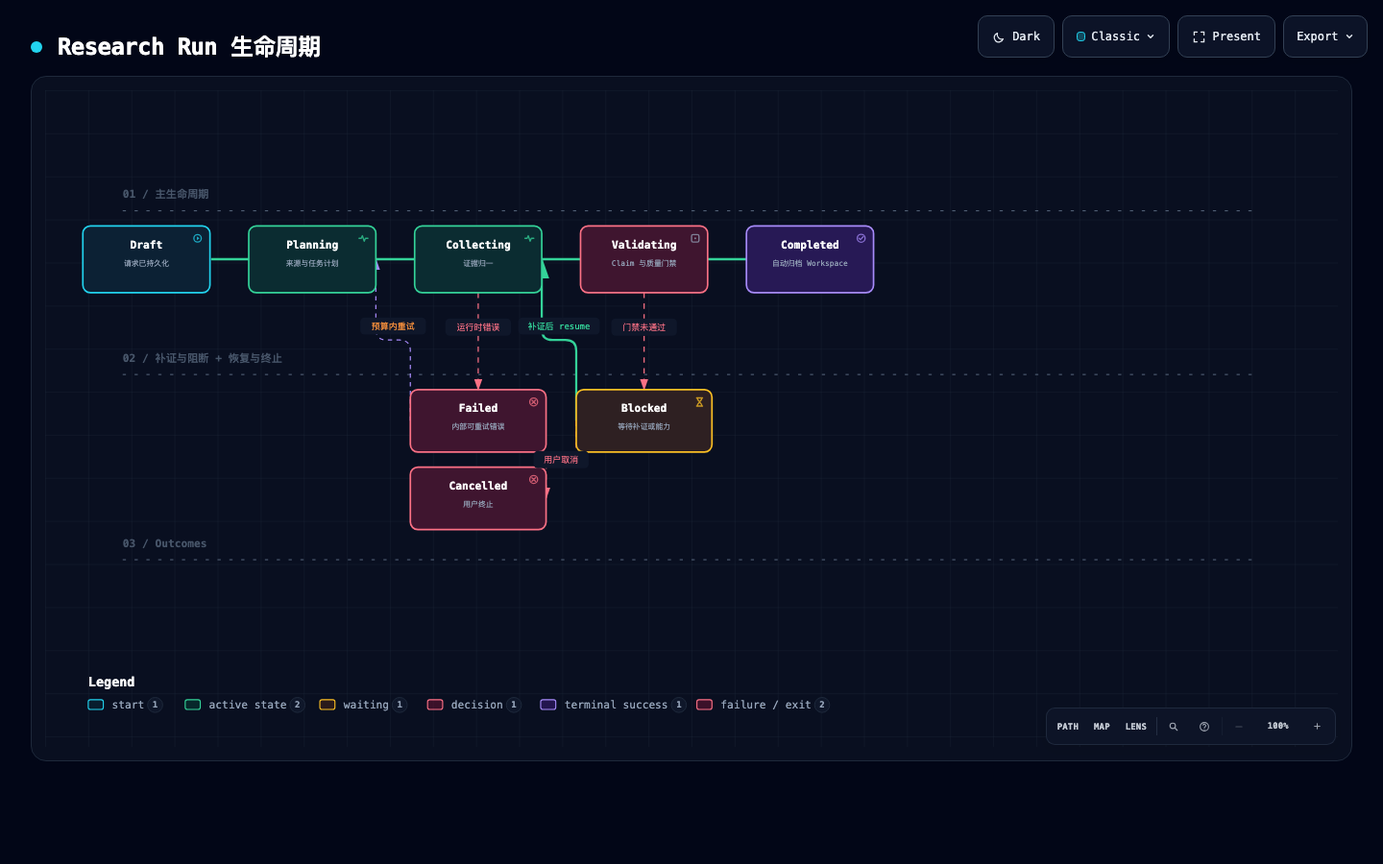
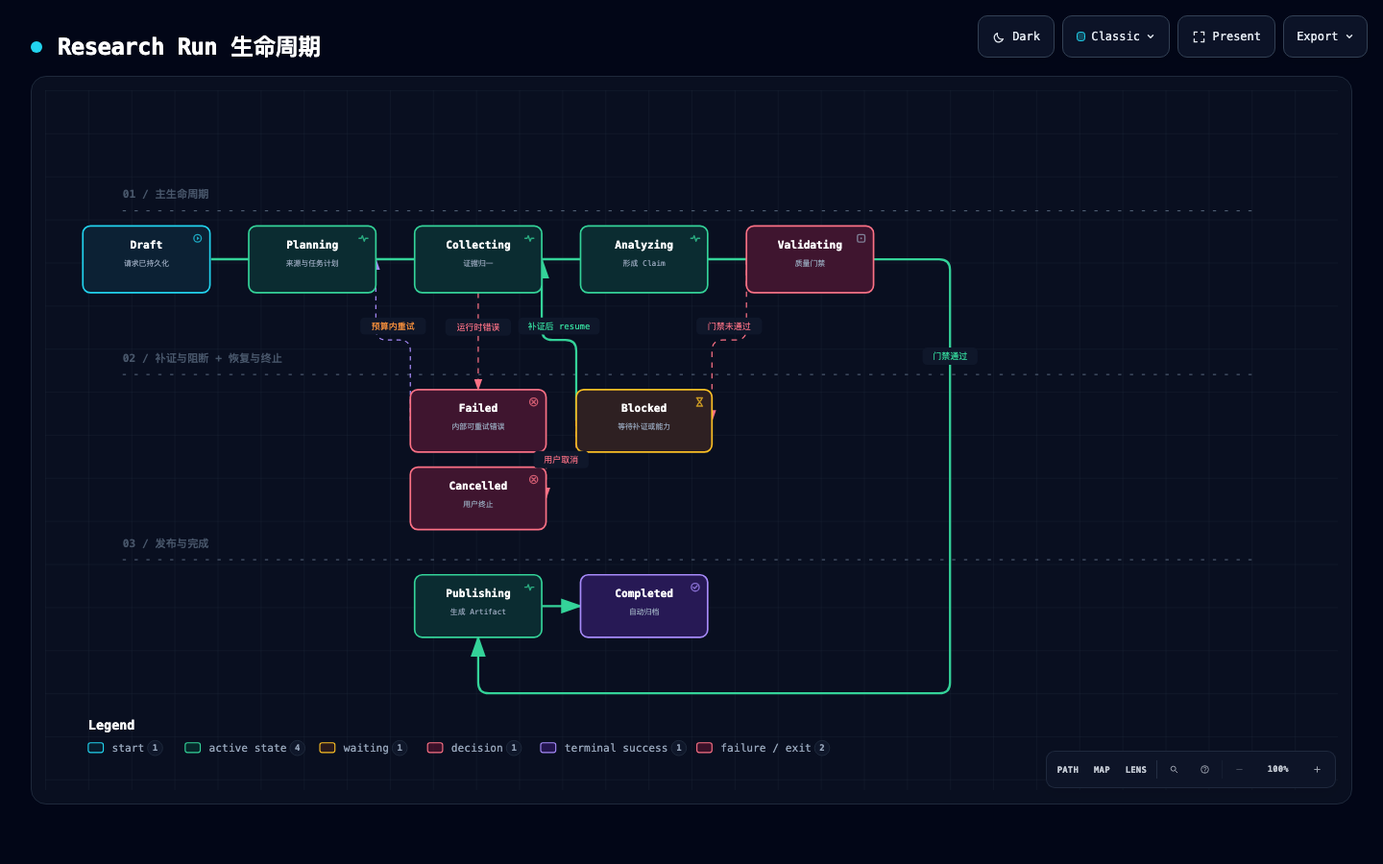
docs: close merged platform specification gaps

diff --git a/outputs/merged-platform-architecture/05-research-run-lifecycle.html b/outputs/merged-platform-architecture/05-research-run-lifecycle.html
@@ -4883,7 +4883,7 @@
 
     <!-- Main Diagram -->
     <div class="diagram-container" data-detail-level="read">
-      <svg viewBox="0 0 1200 610" role="img" aria-labelledby="archify-diagram-title archify-diagram-description" data-preset="classic" data-quality-profile="showcase">
+      <svg viewBox="0 0 1200 650" role="img" aria-labelledby="archify-diagram-title archify-diagram-description" data-preset="classic" data-quality-profile="showcase">
         <title id="archify-diagram-title">Research Run 生命周期</title>
         <desc id="archify-diagram-description">A lifecycle diagram generated by Archify.</desc>
         <!-- Definitions -->
@@ -4914,17 +4914,19 @@
         <path d="M 72 264 L 1128 264" class="a-default" stroke-width="0.8" stroke-dasharray="3,8"/>
         <text x="72" y="252" class="t-dim" font-size="10" font-weight="600">02 / 补证与阻断 + 恢复与终止</text>
         <path d="M 72 436 L 1128 436" class="a-default" stroke-width="0.8" stroke-dasharray="3,8"/>
-        <text x="72" y="424" class="t-dim" font-size="10" font-weight="600">03 / Outcomes</text>
+        <text x="72" y="424" class="t-dim" font-size="10" font-weight="600">03 / 发布与完成</text>
 
         <!-- Primary lifecycle rail -->
         <path d="M 154 157 L 748 157" class="a-emphasis" stroke-width="2.2" marker-end="url(#arrowhead-emphasis)"/>
 
         <!-- Transition paths -->
-        <path data-edge-from="validating" data-edge-to="blocked" data-edge-label="门禁未通过" data-edge-key="0" data-edge-id="gateBlocked" data-composition-points="556,188;556,233;556,233;556,278" d="M 556 188 L 556 233 L 556 233 L 556 278" class="a-security" stroke-width="1.1" marker-end="url(#arrowhead-security)"/>
-        <path data-edge-from="blocked" data-edge-to="collecting" data-edge-label="补证后 resume" data-edge-key="1" data-edge-id="resume" data-composition-points="493,307;493,232;461,232;461,157" d="M 493 307 L 493 242 Q 493 232 483 232 L 471 232 Q 461 232 461 222 L 461 157" class="a-emphasis" stroke-width="2" marker-end="url(#arrowhead-emphasis)"/>
-        <path data-edge-from="collecting" data-edge-to="failed" data-edge-label="运行时错误" data-edge-key="2" data-edge-id="executionFailed" data-composition-points="402,188;402,233;402,233;402,278" d="M 402 188 L 402 233 L 402 233 L 402 278" class="a-security" stroke-width="1.1" marker-end="url(#arrowhead-security)"/>
-        <path data-edge-from="failed" data-edge-to="planning" data-edge-label="预算内重试" data-edge-key="3" data-edge-id="retry" data-composition-points="339,307;339,232;307,232;307,157" d="M 339 307 L 339 242 Q 339 232 329 232 L 317 232 Q 307 232 307 222 L 307 157" class="a-dashed" stroke-width="1.1" marker-end="url(#arrowhead-dashed)"/>
-        <path data-edge-from="blocked" data-edge-to="cancelled" data-edge-label="用户取消" data-edge-key="4" data-edge-id="userCancel" data-composition-points="493,307;493,343;465,343;465,379" d="M 493 307 L 493 333 Q 493 343 483 343 L 475 343 Q 465 343 465 353 L 465 379" class="a-security" stroke-width="1.1" marker-end="url(#arrowhead-security)"/>
+        <path data-edge-from="validating" data-edge-to="publishing" data-edge-label="门禁通过" data-edge-key="0" data-edge-id="publishStart" data-composition-points="769,157;840,157;840,560;402,560;402,508" d="M 769 157 L 830 157 Q 840 157 840 167 L 840 550 Q 840 560 830 560 L 412 560 Q 402 560 402 550 L 402 508" class="a-emphasis" stroke-width="2" marker-end="url(#arrowhead-emphasis)"/>
+        <path data-edge-from="publishing" data-edge-to="completed" data-edge-key="1" data-edge-id="publishComplete" data-composition-points="461,479;497,479" d="M 461 479 L 497 479" class="a-emphasis" stroke-width="2" marker-end="url(#arrowhead-emphasis)"/>
+        <path data-edge-from="validating" data-edge-to="blocked" data-edge-label="门禁未通过" data-edge-key="2" data-edge-id="gateBlocked" data-composition-points="651,157;651,232;619,232;619,307" d="M 651 157 L 651 222 Q 651 232 641 232 L 629 232 Q 619 232 619 242 L 619 307" class="a-security" stroke-width="1.1" marker-end="url(#arrowhead-security)"/>
+        <path data-edge-from="blocked" data-edge-to="collecting" data-edge-label="补证后 resume" data-edge-key="3" data-edge-id="resume" data-composition-points="493,307;493,232;461,232;461,157" d="M 493 307 L 493 242 Q 493 232 483 232 L 471 232 Q 461 232 461 222 L 461 157" class="a-emphasis" stroke-width="2" marker-end="url(#arrowhead-emphasis)"/>
+        <path data-edge-from="collecting" data-edge-to="failed" data-edge-label="运行时错误" data-edge-key="4" data-edge-id="executionFailed" data-composition-points="402,188;402,233;402,233;402,278" d="M 402 188 L 402 233 L 402 233 L 402 278" class="a-security" stroke-width="1.1" marker-end="url(#arrowhead-security)"/>
+        <path data-edge-from="failed" data-edge-to="planning" data-edge-label="预算内重试" data-edge-key="5" data-edge-id="retry" data-composition-points="339,307;339,232;307,232;307,157" d="M 339 307 L 339 242 Q 339 232 329 232 L 317 232 Q 307 232 307 222 L 307 157" class="a-dashed" stroke-width="1.1" marker-end="url(#arrowhead-dashed)"/>
+        <path data-edge-from="blocked" data-edge-to="cancelled" data-edge-label="用户取消" data-edge-key="6" data-edge-id="userCancel" data-composition-points="493,307;493,343;465,343;465,379" d="M 493 307 L 493 333 Q 493 343 483 343 L 475 343 Q 465 343 465 353 L 465 379" class="a-security" stroke-width="1.1" marker-end="url(#arrowhead-security)"/>
 
         <!-- States -->
         <g id="node-draft" data-node-id="draft" data-node-label="Draft" tabindex="0" role="button" aria-label="Focus Draft, 请求已持久化, 主生命周期" aria-pressed="false" data-node-kind="start" data-node-sublabel="请求已持久化" data-node-context="主生命周期">
@@ -4964,30 +4966,54 @@
           <text data-detail="context" x="402" y="163" class="t-muted" font-size="7" text-anchor="middle">证据归一</text>
         </g>
 
-        <g id="node-validating" data-node-id="validating" data-node-label="Validating" tabindex="0" role="button" aria-label="Focus Validating, Claim 与质量门禁, 主生命周期" aria-pressed="false" data-node-kind="decision" data-node-sublabel="Claim 与质量门禁" data-node-context="主生命周期">
-          <title>Validating · Claim 与质量门禁 · 主生命周期</title>
+        <g id="node-analyzing" data-node-id="analyzing" data-node-label="Analyzing" tabindex="0" role="button" aria-label="Focus Analyzing, 形成 Claim, 主生命周期" aria-pressed="false" data-node-kind="active" data-node-sublabel="形成 Claim" data-node-context="主生命周期">
+          <title>Analyzing · 形成 Claim · 主生命周期</title>
           <rect x="497" y="126" width="118" height="62" rx="7" class="c-mask"/>
-          <rect x="497" y="126" width="118" height="62" rx="7" class="c-security" stroke-width="1.5"/>
-          <g aria-hidden="true" data-semantic-sigil="neutral" class="semantic-sigil s-external" transform="translate(598 132) scale(0.6875)">
+          <rect x="497" y="126" width="118" height="62" rx="7" class="c-backend" stroke-width="1.5"/>
+          <g aria-hidden="true" data-semantic-sigil="active" class="semantic-sigil s-backend" transform="translate(598 132) scale(0.6875)">
+            <path d="M2 8h3l1.5-3.5L9 12l1.6-4H14"/>
+          </g>
+        <text data-detail="fine" x="507" y="140" class="t-backend" font-size="7" font-weight="700">04</text>
+          <text data-detail-anchor x="556" y="147" class="t-primary" font-size="10" font-weight="600" text-anchor="middle">Analyzing</text>
+          <text data-detail="context" x="556" y="163" class="t-muted" font-size="7" text-anchor="middle">形成 Claim</text>
+        </g>
+
+        <g id="node-validating" data-node-id="validating" data-node-label="Validating" tabindex="0" role="button" aria-label="Focus Validating, 质量门禁, 主生命周期" aria-pressed="false" data-node-kind="decision" data-node-sublabel="质量门禁" data-node-context="主生命周期">
+          <title>Validating · 质量门禁 · 主生命周期</title>
+          <rect x="651" y="126" width="118" height="62" rx="7" class="c-mask"/>
+          <rect x="651" y="126" width="118" height="62" rx="7" class="c-security" stroke-width="1.5"/>
+          <g aria-hidden="true" data-semantic-sigil="neutral" class="semantic-sigil s-external" transform="translate(752 132) scale(0.6875)">
             <rect x="3" y="3" width="10" height="10" rx="2"/>
             <circle cx="8" cy="8" r="1.2" class="sigil-fill"/>
           </g>
-        <text data-detail="fine" x="507" y="140" class="t-security" font-size="7" font-weight="700">04</text>
-          <text data-detail-anchor x="556" y="147" class="t-primary" font-size="10" font-weight="600" text-anchor="middle">Validating</text>
-          <text data-detail="context" x="556" y="163" class="t-muted" font-size="7" text-anchor="middle">Claim 与质量门禁</text>
+        <text data-detail="fine" x="661" y="140" class="t-security" font-size="7" font-weight="700">05</text>
+          <text data-detail-anchor x="710" y="147" class="t-primary" font-size="10" font-weight="600" text-anchor="middle">Validating</text>
+          <text data-detail="context" x="710" y="163" class="t-muted" font-size="7" text-anchor="middle">质量门禁</text>
         </g>
 
-        <g id="node-completed" data-node-id="completed" data-node-label="Completed" tabindex="0" role="button" aria-label="Focus Completed, 自动归档 Workspace, 主生命周期" aria-pressed="false" data-node-kind="success" data-node-sublabel="自动归档 Workspace" data-node-context="主生命周期">
-          <title>Completed · 自动归档 Workspace · 主生命周期</title>
-          <rect x="651" y="126" width="118" height="62" rx="7" class="c-mask"/>
-          <rect x="651" y="126" width="118" height="62" rx="7" class="c-database" stroke-width="1.5"/>
-          <g aria-hidden="true" data-semantic-sigil="success" class="semantic-sigil s-database" transform="translate(752 132) scale(0.6875)">
+        <g id="node-publishing" data-node-id="publishing" data-node-label="Publishing" tabindex="0" role="button" aria-label="Focus Publishing, 生成 Artifact, 发布与完成" aria-pressed="false" data-node-kind="active" data-node-sublabel="生成 Artifact" data-node-context="发布与完成">
+          <title>Publishing · 生成 Artifact · 发布与完成</title>
+          <rect x="343" y="450" width="118" height="58" rx="7" class="c-mask"/>
+          <rect x="343" y="450" width="118" height="58" rx="7" class="c-backend" stroke-width="1.5"/>
+          <g aria-hidden="true" data-semantic-sigil="active" class="semantic-sigil s-backend" transform="translate(444 456) scale(0.6875)">
+            <path d="M2 8h3l1.5-3.5L9 12l1.6-4H14"/>
+          </g>
+        <text data-detail="fine" x="353" y="464" class="t-backend" font-size="7" font-weight="700">06</text>
+          <text data-detail-anchor x="402" y="471" class="t-primary" font-size="10" font-weight="600" text-anchor="middle">Publishing</text>
+          <text data-detail="context" x="402" y="487" class="t-muted" font-size="7" text-anchor="middle">生成 Artifact</text>
+        </g>
+
+        <g id="node-completed" data-node-id="completed" data-node-label="Completed" tabindex="0" role="button" aria-label="Focus Completed, 自动归档, 发布与完成" aria-pressed="false" data-node-kind="success" data-node-sublabel="自动归档" data-node-context="发布与完成">
+          <title>Completed · 自动归档 · 发布与完成</title>
+          <rect x="497" y="450" width="118" height="58" rx="7" class="c-mask"/>
+          <rect x="497" y="450" width="118" height="58" rx="7" class="c-database" stroke-width="1.5"/>
+          <g aria-hidden="true" data-semantic-sigil="success" class="semantic-sigil s-database" transform="translate(598 456) scale(0.6875)">
             <circle cx="8" cy="8" r="5.3"/>
             <path d="m5.2 8 1.8 1.8 3.8-4"/>
           </g>
-        <text data-detail="fine" x="661" y="140" class="t-database" font-size="7" font-weight="700">05</text>
-          <text data-detail-anchor x="710" y="147" class="t-primary" font-size="10" font-weight="600" text-anchor="middle">Completed</text>
-          <text data-detail="context" x="710" y="163" class="t-muted" font-size="7" text-anchor="middle">自动归档 Workspace</text>
+        <text data-detail="fine" x="507" y="464" class="t-database" font-size="7" font-weight="700">07</text>
+          <text data-detail-anchor x="556" y="471" class="t-primary" font-size="10" font-weight="600" text-anchor="middle">Completed</text>
+          <text data-detail="context" x="556" y="487" class="t-muted" font-size="7" text-anchor="middle">自动归档</text>
         </g>
 
         <g id="node-blocked" data-node-id="blocked" data-node-label="Blocked" tabindex="0" role="button" aria-label="Focus Blocked, 等待补证或能力, 补证与阻断" aria-pressed="false" data-node-kind="waiting" data-node-sublabel="等待补证或能力" data-node-tag="可恢复" data-node-context="补证与阻断">
@@ -5029,53 +5055,58 @@
         </g>
 
         <!-- Transition labels -->
-        <g data-detail="context" data-edge-from="validating" data-edge-to="blocked" data-edge-label="门禁未通过" data-edge-key="0" data-edge-id="gateBlocked">
-          <rect x="525.5" y="212" width="61" height="16" rx="4" class="c-mask"/>
-          <text x="556" y="223" class="t-security" font-size="8" text-anchor="middle">门禁未通过</text>
+        <g data-detail="context" data-edge-from="validating" data-edge-to="publishing" data-edge-label="门禁通过" data-edge-key="0" data-edge-id="publishStart">
+          <rect x="814.4" y="239" width="51.2" height="16" rx="4" class="c-mask"/>
+          <text x="840" y="250" class="t-backend" font-size="8" text-anchor="middle">门禁通过</text>
         </g>
-        <g data-detail="context" data-edge-from="blocked" data-edge-to="collecting" data-edge-label="补证后 resume" data-edge-key="1" data-edge-id="resume">
+
+        <g data-detail="context" data-edge-from="validating" data-edge-to="blocked" data-edge-label="门禁未通过" data-edge-key="2" data-edge-id="gateBlocked">
+          <rect x="604.5" y="211" width="61" height="16" rx="4" class="c-mask"/>
+          <text x="635" y="222" class="t-security" font-size="8" text-anchor="middle">门禁未通过</text>
+        </g>
+        <g data-detail="context" data-edge-from="blocked" data-edge-to="collecting" data-edge-label="补证后 resume" data-edge-key="3" data-edge-id="resume">
           <rect x="439.15" y="211" width="75.7" height="16" rx="4" class="c-mask"/>
           <text x="477" y="222" class="t-backend" font-size="8" text-anchor="middle">补证后 resume</text>
         </g>
-        <g data-detail="context" data-edge-from="collecting" data-edge-to="failed" data-edge-label="运行时错误" data-edge-key="2" data-edge-id="executionFailed">
+        <g data-detail="context" data-edge-from="collecting" data-edge-to="failed" data-edge-label="运行时错误" data-edge-key="4" data-edge-id="executionFailed">
           <rect x="371.5" y="212" width="61" height="16" rx="4" class="c-mask"/>
           <text x="402" y="223" class="t-security" font-size="8" text-anchor="middle">运行时错误</text>
         </g>
-        <g data-detail="context" data-edge-from="failed" data-edge-to="planning" data-edge-label="预算内重试" data-edge-key="3" data-edge-id="retry">
+        <g data-detail="context" data-edge-from="failed" data-edge-to="planning" data-edge-label="预算内重试" data-edge-key="5" data-edge-id="retry">
           <rect x="292.5" y="211" width="61" height="16" rx="4" class="c-mask"/>
           <text x="323" y="222" class="t-messagebus" font-size="8" text-anchor="middle">预算内重试</text>
         </g>
-        <g data-detail="context" data-edge-from="blocked" data-edge-to="cancelled" data-edge-label="用户取消" data-edge-key="4" data-edge-id="userCancel">
+        <g data-detail="context" data-edge-from="blocked" data-edge-to="cancelled" data-edge-label="用户取消" data-edge-key="6" data-edge-id="userCancel">
           <rect x="453.4" y="335" width="51.2" height="16" rx="4" class="c-mask"/>
           <text x="479" y="346" class="t-security" font-size="8" text-anchor="middle">用户取消</text>
         </g>
 
         <!-- Legend -->
         <g data-legend data-legend-bridge>
-          <text x="40" y="554" class="t-primary" font-size="12" font-weight="650">Legend</text>
-          <g data-legend-semantic-kind="start" data-legend-kind="start" data-legend-label="start" data-legend-x="40" data-legend-baseline="574" data-legend-width="68">
-            <rect x="40" y="566" width="14" height="9" rx="2" class="c-frontend" stroke-width="1"/>
-            <text x="62" y="574" class="t-muted" font-size="10" font-weight="500">start</text>
+          <text x="40" y="594" class="t-primary" font-size="12" font-weight="650">Legend</text>
+          <g data-legend-semantic-kind="start" data-legend-kind="start" data-legend-label="start" data-legend-x="40" data-legend-baseline="614" data-legend-width="68">
+            <rect x="40" y="606" width="14" height="9" rx="2" class="c-frontend" stroke-width="1"/>
+            <text x="62" y="614" class="t-muted" font-size="10" font-weight="500">start</text>
           </g>
-          <g data-legend-semantic-kind="active" data-legend-kind="active" data-legend-label="active state" data-legend-x="130" data-legend-baseline="574" data-legend-width="103">
-            <rect x="130" y="566" width="14" height="9" rx="2" class="c-backend" stroke-width="1"/>
-            <text x="152" y="574" class="t-muted" font-size="10" font-weight="500">active state</text>
+          <g data-legend-semantic-kind="active" data-legend-kind="active" data-legend-label="active state" data-legend-x="130" data-legend-baseline="614" data-legend-width="103">
+            <rect x="130" y="606" width="14" height="9" rx="2" class="c-backend" stroke-width="1"/>
+            <text x="152" y="614" class="t-muted" font-size="10" font-weight="500">active state</text>
           </g>
-          <g data-legend-semantic-kind="waiting" data-legend-kind="waiting" data-legend-label="waiting" data-legend-x="255" data-legend-baseline="574" data-legend-width="78">
-            <rect x="255" y="566" width="14" height="9" rx="2" class="c-cloud" stroke-width="1"/>
-            <text x="277" y="574" class="t-muted" font-size="10" font-weight="500">waiting</text>
+          <g data-legend-semantic-kind="waiting" data-legend-kind="waiting" data-legend-label="waiting" data-legend-x="255" data-legend-baseline="614" data-legend-width="78">
+            <rect x="255" y="606" width="14" height="9" rx="2" class="c-cloud" stroke-width="1"/>
+            <text x="277" y="614" class="t-muted" font-size="10" font-weight="500">waiting</text>
           </g>
-          <g data-legend-semantic-kind="decision" data-legend-kind="decision" data-legend-label="decision" data-legend-x="355" data-legend-baseline="574" data-legend-width="83">
-            <rect x="355" y="566" width="14" height="9" rx="2" class="c-security" stroke-width="1"/>
-            <text x="377" y="574" class="t-muted" font-size="10" font-weight="500">decision</text>
+          <g data-legend-semantic-kind="decision" data-legend-kind="decision" data-legend-label="decision" data-legend-x="355" data-legend-baseline="614" data-legend-width="83">
+            <rect x="355" y="606" width="14" height="9" rx="2" class="c-security" stroke-width="1"/>
+            <text x="377" y="614" class="t-muted" font-size="10" font-weight="500">decision</text>
           </g>
-          <g data-legend-semantic-kind="success" data-legend-kind="success" data-legend-label="terminal success" data-legend-x="460" data-legend-baseline="574" data-legend-width="123">
-            <rect x="460" y="566" width="14" height="9" rx="2" class="c-database" stroke-width="1"/>
-            <text x="482" y="574" class="t-muted" font-size="10" font-weight="500">terminal success</text>
+          <g data-legend-semantic-kind="success" data-legend-kind="success" data-legend-label="terminal success" data-legend-x="460" data-legend-baseline="614" data-legend-width="123">
+            <rect x="460" y="606" width="14" height="9" rx="2" class="c-database" stroke-width="1"/>
+            <text x="482" y="614" class="t-muted" font-size="10" font-weight="500">terminal success</text>
           </g>
-          <g data-legend-semantic-kind="failure" data-legend-kind="failure" data-legend-label="failure / exit" data-legend-x="605" data-legend-baseline="574" data-legend-width="113">
-            <rect x="605" y="566" width="14" height="9" rx="2" class="c-security" stroke-width="1"/>
-            <text x="627" y="574" class="t-muted" font-size="10" font-weight="500">failure / exit</text>
+          <g data-legend-semantic-kind="failure" data-legend-kind="failure" data-legend-label="failure / exit" data-legend-x="605" data-legend-baseline="614" data-legend-width="113">
+            <rect x="605" y="606" width="14" height="9" rx="2" class="c-security" stroke-width="1"/>
+            <text x="627" y="614" class="t-muted" font-size="10" font-weight="500">failure / exit</text>
           </g>
         </g>
       </svg>

diff --git a/docs/superpowers/plans/2026-08-31-merged-platform-v1.md b/docs/superpowers/plans/2026-08-31-merged-platform-v1.md
@@ -330,7 +330,11 @@ git commit -m "feat: add theme research packs"
 - Create: `services/agent_team_service.py`
 - Create: `services/scheduler_coordinator.py`
 - Create: `app/api/routes/research_workspaces.py`
-- Create: `app/api/routes/research_runtime.py`
+- Create: `app/api/routes/research_sessions.py`
+- Create: `app/api/routes/runtime_providers.py`
+- Create: `app/api/routes/research_skills.py`
+- Create: `app/api/routes/agent_teams.py`
+- Create: `app/api/routes/agent_schedules.py`
 - Modify: `services/research_run_service.py`
 - Modify: `app/api/routes/research_runs.py`
 - Test: `tests/unit/test_research_workspace_service.py`
@@ -372,14 +376,14 @@ FinGPT 允许 DSH→LangGraph 回退；Claw 缺 agent_team 能力时阻断。Ski
 
 - [ ] **Step 5: 实现 API 与 SSE**
 
-注册 workspaces、sessions/messages、runtime-providers、skills、agent-teams、agent-schedules；Run SSE 发送状态和阶段，不发送秘密或完整大对象。冲突幂等键返回已有资源。
+注册批准的独立 API 组：`/api/research-workspaces`、`/api/research-sessions` 与 `/{id}/messages`、`/api/runtime-providers`、`/api/research-skills`、`/api/agent-teams`、`/api/agent-schedules`；Run SSE 发送状态和阶段，不发送秘密或完整大对象。冲突幂等键返回已有资源。
 
 - [ ] **Step 6: 验证与 Commit**
 
 ```bash
 python -m pytest tests/unit/test_research_workspace_service.py tests/unit/test_runtime_provider_service.py tests/unit/test_agent_team_service.py tests/unit/test_scheduler_coordinator.py tests/unit/test_research_workspace_api.py tests/unit/test_research_run_service.py tests/unit/test_research_runs_api.py -q
-python -m ruff check services/research_workspace_service.py services/runtime_provider_service.py services/agent_team_service.py services/scheduler_coordinator.py data_layer/repositories/research_workspace_repository.py app/api/routes/research_workspaces.py app/api/routes/research_runtime.py tests/unit/test_research_workspace_service.py tests/unit/test_runtime_provider_service.py tests/unit/test_agent_team_service.py tests/unit/test_scheduler_coordinator.py tests/unit/test_research_workspace_api.py
-git add core/contracts/research_workspace.py core/contracts/research.py data_layer/repositories/research_workspace_repository.py services/research_workspace_service.py services/runtime_provider_service.py services/agent_team_service.py services/scheduler_coordinator.py services/research_run_service.py app/api/routes/research_workspaces.py app/api/routes/research_runtime.py app/api/routes/research_runs.py app/api/main.py tests/unit/test_research_workspace_service.py tests/unit/test_runtime_provider_service.py tests/unit/test_agent_team_service.py tests/unit/test_scheduler_coordinator.py tests/unit/test_research_workspace_api.py
+python -m ruff check services/research_workspace_service.py services/runtime_provider_service.py services/agent_team_service.py services/scheduler_coordinator.py data_layer/repositories/research_workspace_repository.py app/api/routes/research_workspaces.py app/api/routes/research_sessions.py app/api/routes/runtime_providers.py app/api/routes/research_skills.py app/api/routes/agent_teams.py app/api/routes/agent_schedules.py tests/unit/test_research_workspace_service.py tests/unit/test_runtime_provider_service.py tests/unit/test_agent_team_service.py tests/unit/test_scheduler_coordinator.py tests/unit/test_research_workspace_api.py
+git add core/contracts/research_workspace.py core/contracts/research.py data_layer/repositories/research_workspace_repository.py services/research_workspace_service.py services/runtime_provider_service.py services/agent_team_service.py services/scheduler_coordinator.py services/research_run_service.py app/api/routes/research_workspaces.py app/api/routes/research_sessions.py app/api/routes/runtime_providers.py app/api/routes/research_skills.py app/api/routes/agent_teams.py app/api/routes/agent_schedules.py app/api/routes/research_runs.py app/api/main.py tests/unit/test_research_workspace_service.py tests/unit/test_runtime_provider_service.py tests/unit/test_agent_team_service.py tests/unit/test_scheduler_coordinator.py tests/unit/test_research_workspace_api.py
 git commit -m "feat: add FinGPT and Claw research runtime"
 ```
 

diff --git a/docs/architecture/merged-platform/02-fingpt-claw.md b/docs/architecture/merged-platform/02-fingpt-claw.md
@@ -31,14 +31,18 @@ Workspace 承载项目隔离的会话与记忆；Run 承载可恢复、证据优
 | API | 请求/响应要点 |
 |---|---|
 | `POST /api/research-workspaces` | 创建项目 Workspace，支持幂等键 |
-| `POST /api/research-workspaces/{id}/sessions` | 创建 `temporary|workspace` Session |
-| `POST /api/research-workspaces/{id}/sessions/{sid}/promote` | 原子升级临时 Session，冲突返回既有资源 |
+| `POST /api/research-sessions` | 创建 `temporary|workspace` Session，可关联 Workspace |
+| `GET|POST /api/research-sessions/{id}/messages` | 分页读取或追加消息；写入支持幂等键 |
+| `POST /api/research-sessions/{id}/promote` | 原子升级临时 Session，冲突返回既有资源 |
 | `POST /api/research-runs`、`/{id}/execute|resume` | 复用现有 Research Run 契约 |
 | `GET /api/research-runs/{id}/events` | SSE 只发送状态、阶段、序号和事件 ID |
 | `POST /api/research-workspaces/{id}/notes` | 仅接受 Claim/段落引用与用户编辑摘要 |
-| `GET /api/research-runtime/providers|skills|teams|schedules` | 声明、健康与安全边界 |
+| `/api/runtime-providers` | Provider 声明、能力与健康状态 |
+| `/api/research-skills` | Skill 声明、版本、校验与启停 |
+| `/api/agent-teams` | Team 定义、预算和 Supervisor 配置 |
+| `/api/agent-schedules` | Agent 日程 CRUD、触发、暂停和最近执行状态 |
 
-公共类型包含 `ResearchWorkspace`、`ResearchSession`、`ResearchMessage`、`ResearchNote`、`RuntimeProvider`、`SkillManifest`、`AgentTeam`、`AgentBudget`、`BlackboardEntry` 与现有 `ResearchRun`/`ResearchClaim`。错误使用稳定代码：`blocked_runtime`、`tool_denied`、`budget_exhausted`、`deadline_exceeded`、`quality_gate_failed`。
+公共类型包含 `ResearchWorkspace`、`ResearchSession`、`ResearchMessage`、`ResearchNote`、`RuntimeProvider`、`SkillManifest`、`AgentTeamDefinition`、`AgentSchedule`、`AgentBudget`、`BlackboardEntry` 与现有 `ResearchRun`/`ResearchClaim`。错误使用稳定代码：`blocked_runtime`、`tool_denied`、`budget_exhausted`、`deadline_exceeded`、`quality_gate_failed`。
 
 ## 主流程
 
@@ -56,6 +60,7 @@ Workspace 承载项目隔离的会话与记忆；Run 承载可恢复、证据优
 - FinGPT：DSH unavailable/timeout 时记录 `runtime_fallback_total` 并从 LangGraph 重新开始确定性阶段；不复用未知的 DSH 中间副作用。
 - Claw：provider 缺 `agent_team`、预算不足或白名单不满足即 `blocked_runtime`；不得回退为 FinGPT。
 - Tool/MCP：未注册、参数超 schema、超 deadline 或返回敏感字段时拒绝并审计；其它 Worker 可继续时由 Supervisor 局部降级。
+- Agent Schedule：默认禁止并发重入；同一日程错过多次时只合并并执行最近一次，租约过期后才允许接管。
 - 完成后自动归档失败不回滚 completed Run，但产生可重试 `archive_pending` 运维事件。
 
 ## 可观测性
@@ -68,5 +73,6 @@ Workspace 承载项目隔离的会话与记忆；Run 承载可恢复、证据优
 - Runtime 测试确认 FinGPT DSH→LangGraph 回退；Claw 缺能力精确返回 `blocked_runtime`。
 - Skill/Tool 测试拒绝 Shell、任意网络、未注册 MCP 和越界参数。
 - Team 测试覆盖 Supervisor/Blackboard、最大步骤、并发、token/费用和 deadline。
+- Schedule 测试覆盖禁止并发重入、租约接管和 missed runs 只合并最近一次。
 - Run 回归覆盖现有 create/execute/resume/Claim/quality gate/export，并验证 completed 自动归档和 Note revision 不覆盖。
 - SSE 测试确认事件有序、可重连、不包含密钥、完整 prompt、附件或大 artifact。

diff --git a/docs/architecture/merged-platform/README.md b/docs/architecture/merged-platform/README.md
@@ -9,7 +9,7 @@
 - 三层隔离：事实层只保存可追溯观察；研究层保存运行、Claim、产物、对话和 Note；个人观察层保存 Watchlist、规则、提醒和通知。
 - 单一入口：Web、Tauri 和 DSH 都只调用 FastAPI；跨模块访问必须经过共享契约与应用服务。
 - 单一事实源：PostgreSQL + pgvector；HTML、Markdown、SSE、缓存和桌面通知都只是投影。
-- 明确排除：不迁入 LSH 的策略评分、订单、模拟交易、`score_hint`、`driver-summary`，不恢复旧文档中的策略/交易范围。
+- 明确排除：不把 LSH 的策略评分、订单、模拟交易、`score_hint`、`driver-summary` 迁入新事实模型；策略、交易和基金审批能力仅冻结为只读归档，不作为重复能力删除。
 
 ## 文档导航
 
@@ -50,7 +50,7 @@ HTML 位于仓库根目录 `outputs/merged-platform-architecture/`；可编辑 A
 ## 全局状态与失败契约
 
 - 事实不可用返回 `unavailable`，过期返回 `stale`；两者均不得被包装成 `fresh`。
-- 模块局部失败返回带 `error_code`、`retryable`、`observed_at`、`available_at` 的结构化降级，不把整页变成 500。
+- 所有事实响应完整包含 `as_of`、`observed_at`、`available_at`、`source_refs`、`freshness_status`、`quality_flags`；模块局部失败额外返回 `error_code`、`retryable`，不把整页变成 500。
 - FinGPT 的 DSH 不可用时可回退 LangGraph；Claw 缺少 `agent_team` 能力必须返回 `blocked_runtime`，不得语义回退。
 - Research Run 完成后自动归档到 Workspace；用户只能把选中的 Claim 或段落置顶为版本化 Note，不能把整段模型文本提升为事实。
 - 告警只在 fresh 数据发生 false→true 边沿时触发；stale/unavailable 跳过，重复真值去重。
@@ -60,4 +60,4 @@ HTML 位于仓库根目录 `outputs/merged-platform-architecture/`；可编辑 A
 
 统一日志字段至少包含 `request_id`、`trace_id`、`workspace_id`/`run_id`、`module`、`status`、`latency_ms`，数据路径再包含 `source_ref`、`observed_at`、`freshness_status`。指标覆盖请求耗时、数据新鲜度、降级区块、Run 状态、Runtime 回退、工具拒绝、调度租约、Pack 隔离、Alert 去重和旧 API 调用量。
 
-总体验收要求：契约与迁移单测、四模块服务/API 单测、旧能力 parity/零调用测试、九张 Archify 图 showcase 验证和四视口视觉检查。桌面相关功能还需原生 macOS/Windows CI；发布前在真实 Windows 环境完成安装级烟测。本地 macOS 或文档验证不能替代这些平台证据。
+总体验收要求：契约与迁移单测；PostgreSQL 的迁移、幂等摄入、快照、任务租约、项目隔离、通知持久化；API/SSE 的分页、断线重连、取消、恢复、Provider 故障和部分降级；首页、资产观察、主题研究、FinGPT/Claw 四条浏览器旅程；DSH 无数据库权限、未授权 MCP 拒绝和项目记忆隔离；旧能力 parity/零调用；九张 Archify 图 showcase 与四视口视觉检查。性能门槛为缓存首页 P95≤500ms、资产/主题 P95≤1s、SSE 首状态≤1s、提醒评估≤60s。桌面相关功能还需原生 macOS/Windows CI；发布前在真实 Windows 环境完成安装级烟测。本地 macOS 或文档验证不能替代这些平台证据。

diff --git a/docs/architecture/merged-platform/05-asset-observation.md b/docs/architecture/merged-platform/05-asset-observation.md
@@ -33,14 +33,14 @@
 | `/api/asset-observation/alert-events` | 查询、acknowledge、resolve |
 | `GET /api/asset-observation/notifications` | 站内未读/历史与投递状态 |
 
-公共类型包括 `AssetSnapshotEnvelope`、`PeerSet`、`Watchlist`、`WatchlistItem`、`AlertRule`、`AlertEvaluation`、`AlertEvent`、`Notification`。操作符限定 `gt|gte|lt|lte|crosses_above|crosses_below|pct_change`，数值和阈值必须单位兼容。
+公共类型包括 `AssetSnapshotEnvelope`、`PeerSet`、`Watchlist`、`WatchlistItem`、`AlertRule`、`AlertEvaluation`、`AlertEvent`、`Notification`。Alert 固定支持价格/净值、涨跌、资金、估值、持仓、公告和主题事件七类规则；操作符限定 `gt|gte|lt|lte|crosses_above|crosses_below|pct_change`，数值和阈值必须单位兼容。
 
 ## 主流程
 
 1. 服务解析 `AssetRef` 和当前有效 identifier，从现有事实表组合详情。
-2. 默认 peer：stock 按行业，index 按类别，ETF 按跟踪指数/主题，active_fund 按基金分类/基准；响应返回规则、样本和 as_of。
+2. 默认 peer：stock 按申万细分行业，index 按类别，ETF 按跟踪指数/主题，active_fund 按基金分类/基准；响应返回规则、样本和 as_of。
 3. 用户以 canonical asset ID 加入一个或多个 Watchlist。
-4. 调度器或事实事件触发 Alert Evaluation；仅 fresh 且单位一致的 false→true 边沿生成 `alert_event` 和 `notification`。
+4. 调度器或事实事件触发 Alert Evaluation；仅 fresh 且单位一致的 false→true 生成 `alert_event` 和 `notification`。持续为 true 时 cooldown 窗口内去重，窗口结束后可生成新的同周期提醒；转为 false 时当前事件自动 resolved，并重置边沿。
 5. FastAPI/SSE 告知站内客户端重新拉取；acknowledge/resolved 持久化。
 6. Task 3 中前端消费 notification，并经已获授权的官方 `tauri-plugin-notification` 请求权限与发送最小摘要；拒绝时保留站内通道。
 
@@ -48,7 +48,7 @@
 
 - Alert Rule：`draft → active → paused → retired`。
 - Evaluation：`not_matched|triggered|deduplicated|skipped_data_stale|skipped_data_unavailable|failed_unit_mismatch`。
-- Alert Event：`open → acknowledged → resolved`；同一边沿去重，条件回到 false 后才允许下次 false→true 触发。
+- Alert Event：`open → acknowledged → resolved`；cooldown 窗口内持续真值去重，窗口结束后的持续真值可再次提醒，条件回到 false 时自动 resolved 并允许下一次 false→true 触发。
 - Notification：`pending → in_app_delivered`，获得桌面能力时可进入 `desktop_delivered|desktop_permission_denied|desktop_failed`；后三者不回滚站内记录。
 - 写冲突返回 409，非法 operator/unit 返回 422，不存在的资产/列表返回 404。
 

diff --git a/docs/architecture/merged-platform/06-migration-rollout.md b/docs/architecture/merged-platform/06-migration-rollout.md
@@ -9,7 +9,7 @@
 - AlphaFoundry PostgreSQL 最终拥有全部迁移后的 `theme_observation`、Workspace/Run 与个人观察数据。
 - LSH CSV/SQLite/Flask 仅是迁移来源；source file hash、row identity、行级结果和原始归档路径必须保留。
 - `lsh-capability-map.yaml` 记录 source、target、classification、data_migration、parity_test、call_count_zero、archive_path、status。
-- 不迁入 LSH 的策略评分、YAML 交易规则、纸面订单、账户、模拟交易、`score_hint`、`driver-summary` 或旧策略范围。
+- 策略、交易和基金审批能力冻结为只读归档，不作为重复能力删除；其策略评分、YAML 交易规则、纸面订单、账户、模拟交易、`score_hint`、`driver-summary` 不迁入新事实模型。
 
 ## 禁止依赖
 
@@ -39,7 +39,7 @@ scripts/migrate_lsh_theme_data.py --source <path> --apply --output <report.json>
 3. 对 LSH 主题文件运行 dry-run，审阅 accepted/quarantined/rejected、重复、单位和冲突。
 4. 获得明确 apply 决策后写入新表；按 source hash + row identity 幂等，复核计数和抽样事实。
 5. 新 API 与旧能力并行读，对相同 fixture/as_of 跑 parity；前端切到新 API，旧适配器持续计量调用。
-6. 只有 `data_migration + parity_test + regression + call_count_zero + archive_path` 全绿，gate 才允许删除。
+6. 只有 `data_migration + parity_test + regression + call_count_zero + archive_path` 全绿，gate 才允许删除重复 Flask、SQLite、静态 Dashboard 和平行运行模型；策略、交易和基金审批不进入删除集合。
 7. 删除后观察一个稳定版本；LSH 目录与数据导出只读归档，发现回归时恢复适配器而不是双写。
 
 ## 状态与失败
@@ -62,3 +62,8 @@ scripts/migrate_lsh_theme_data.py --source <path> --apply --output <report.json>
 - 前端静态契约断言首页、资产、行业、研究只调用新领域 API；研究输出不写事实 API。
 - 归档验收记录 commit/tag、schema/version、文件哈希、恢复说明和只读权限。
 - 桌面相关迁移仍需原生 macOS/Windows CI；发布前真实 Windows 安装级烟测不能由本地验证替代。
+- PostgreSQL 集成测试必须覆盖迁移、幂等摄入、快照、任务租约、项目隔离和通知持久化。
+- API/SSE 测试必须覆盖分页、断线重连、取消、恢复、Provider 故障和部分数据降级。
+- 浏览器验收必须覆盖首页、资产观察、主题研究、FinGPT/Claw 四条完整旅程。
+- 安全测试必须证明 DSH 无数据库权限，Skill/MCP 未授权调用被拒绝，项目记忆互相隔离。
+- 性能门槛固定为缓存首页 P95≤500ms、资产/主题详情 P95≤1s、SSE 首状态≤1s、提醒评估延迟≤60s。

diff --git a/docs/architecture/merged-platform/04-theme-research-packs.md b/docs/architecture/merged-platform/04-theme-research-packs.md
@@ -2,7 +2,7 @@
 
 ## 职责
 
-Research Pack 是声明式主题数据包：声明边界、产业链、dataset schema、KPI 单位/频率/来源/新鲜度、资产暴露与研究模板。Pack 统一写入 `theme_observation`，再提供六类查询投影；不自建表、不携带网络或数据库权限。
+Research Pack 是声明式主题数据包：Manifest 固定声明主题边界、产业链、dataset schema、KPI 单位/频率/来源优先级/新鲜度、事件、资产暴露、研究模板和兼容版本。Pack 统一写入 `theme_observation`，再提供六类查询投影；不自建表、不携带网络或数据库权限。
 
 首批 Pack 为黄金、航天、光伏、AI 基础设施。它们迁移 LSH 的数据资产和严格口径，不迁移策略、评分、订单、`score_hint` 或 `driver-summary`。
 
@@ -34,11 +34,11 @@ Research Pack 是声明式主题数据包：声明边界、产业链、dataset s
 | `GET /api/themes/{key}/health` | dataset coverage、age、quarantine/rejected 统计 |
 | `POST /api/themes/{key}/research-workspaces` | 生成预填研究请求，不直接生成结论 |
 
-公共类型包括 `ThemePackManifest`、`DatasetManifest`、`KPIDefinition`、`ValueChainNode`、`ThemeAssetExposure`、`ThemeObservationProjection`、`PackHealth`。所有值经 `ObservationEnvelope` 保留来源与时间。
+公共类型包括 `ThemePackManifest`、`ThemeObservation`、`ThemeSnapshot`、`DatasetManifest`、`KPIDefinition`、`ValueChainNode`、`ThemeAssetExposure`、`PackHealth`。`KPI Series`、`Value Chain`、`Related Assets`、`Events`、`Data Health` 是类型化读模型而非新的事实类型；所有值经 `ObservationEnvelope` 保留来源与时间。
 
 ## 主流程
 
-1. Registry 读取 manifest，验证 key/version/kind、schema、KPI、freshness 和插件权限。
+1. Registry 读取 manifest，验证 key/version/kind、兼容版本、schema、KPI、来源优先级、freshness、事件声明和插件权限。
 2. 迁移器默认 dry-run，逐文件计算 source hash，逐行解析 identity、时间、值、单位、来源和状态。
 3. 通过行写入 `theme_observation`；缺失/冲突进 quarantine，非法或禁止字段进 rejected；重复 `source_hash + row_identity` 幂等跳过。
 4. Repository 以查询组合六类投影；health 暴露覆盖和 age。

diff --git a/docs/architecture/merged-platform/00-system-overview.md b/docs/architecture/merged-platform/00-system-overview.md
@@ -36,9 +36,10 @@
 - `/api/market-home/*`：live、snapshot、events、drill-down。
 - `/api/themes/*`：catalog、snapshot、kpis、value-chain、events、assets、health。
 - `/api/asset-observation/*`：assets、watchlists、alert-rules、alert-events、notifications。
-- `/api/research-workspaces/*`、`/api/research-runtime/*`、现有 `/api/research-runs/*`。
+- `/api/research-workspaces/*`、`/api/research-sessions/*`、现有 `/api/research-runs/*`。
+- `/api/runtime-providers/*`、`/api/research-skills/*`、`/api/agent-teams/*`、`/api/agent-schedules/*`。
 
-共享类型为 `AssetRef`、`AssetIdentifier`、`SourceRef`、`ObservationEnvelope`、`FreshnessStatus`、`DomainEvent`、`ScheduledJob`。每个 API 响应携带 `as_of`/`observed_at`、新鲜度和来源；异步创建接口支持 `Idempotency-Key`，冲突键返回现有资源而不是重复创建。
+共享类型为 `AssetRef`、`AssetIdentifier`、`SourceRef`、`ObservationEnvelope`、`FreshnessStatus`、`DomainEvent`、`ScheduledJob`。所有事实响应必须完整携带 `as_of`、`observed_at`、`available_at`、`source_refs`、`freshness_status`、`quality_flags`；异步创建接口支持 `Idempotency-Key`，冲突键返回现有资源而不是重复创建。
 
 ## 主流程
 

diff --git a/docs/architecture/merged-platform/01-shared-contracts.md b/docs/architecture/merged-platform/01-shared-contracts.md
@@ -56,7 +56,7 @@
 | `DomainEvent` | event_id、type、occurred_at、payload_ref | 先写 PostgreSQL `domain_event`，SSE 只传小型引用 |
 | `ScheduledJob` | job_id、owner、idempotency_key、lease | 默认 single-flight；missed runs 合并 latest |
 
-API 模型必须保持“缺失”“不适用”“来源失败”“0”四种语义可区分。金额、比例、点位、数量和价格不得省略单位；所有时间保存带时区值，交易日另有明确 date 字段。
+所有事实响应必须完整包含 `as_of`、`observed_at`、`available_at`、`source_refs`、`freshness_status`、`quality_flags`。API 模型必须保持“缺失”“不适用”“来源失败”“0”四种语义可区分。金额、比例、点位、数量和价格不得省略单位；所有时间保存带时区值，交易日另有明确 date 字段。
 
 ## 主流程
 
